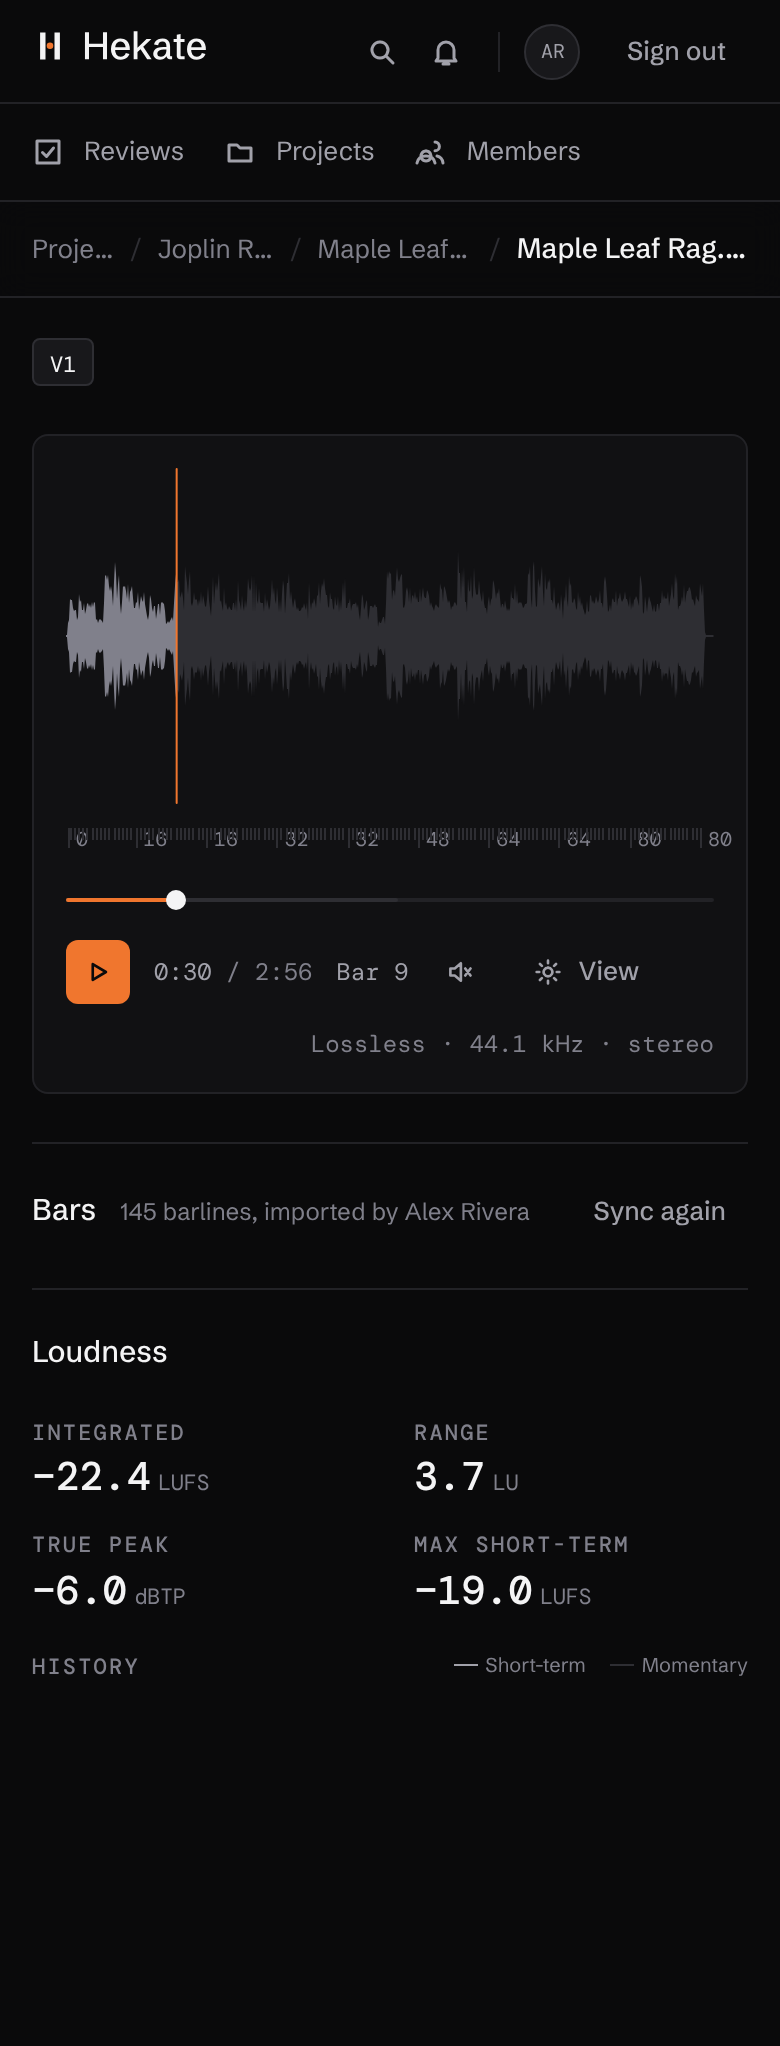
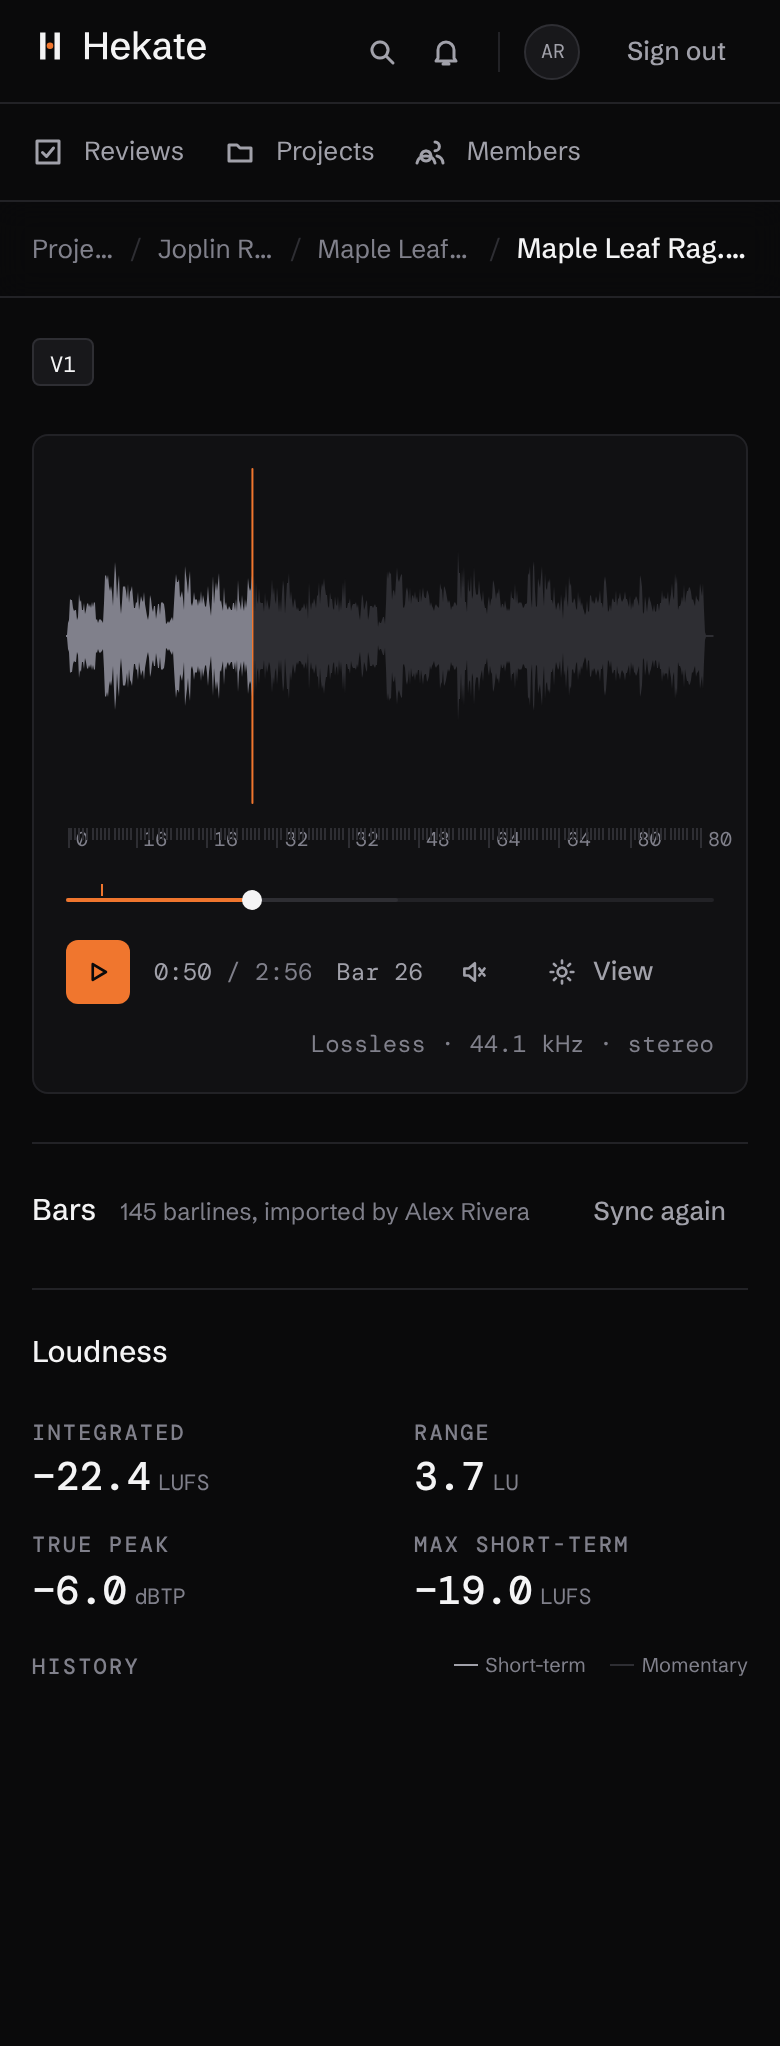
feat(web): read comments by bar, and point a comment at a bar
A comment's time reads with its bar once the recording is synced, and
the composer offers the bar itself: a bar anchor plays from where the
map first reaches it and sorts where it is heard.

Claude-Session: https://claude.ai/code/session_01NFVnDKxWxdqH1wjHhzokRU

diff --git a/apps/web/src/components/comments.tsx b/apps/web/src/components/comments.tsx
@@ -1,10 +1,14 @@
 import {
   type Anchor,
   anchorShift,
+  type BarMap,
+  barAt,
+  barLabel,
   type CarryStatus,
   carryStatuses,
   carryStatusLabel,
   formatAnchor,
+  timeOfBar,
 } from "@hekate/shared";
 import { useQuery } from "@tanstack/react-query";
 import { type FormEvent, type KeyboardEvent, useEffect, useRef, useState } from "react";
@@ -66,6 +70,19 @@ function Target({
       {children}
     </button>
   );
+}
+
+/** A bar anchor as the player reads bars: "Bar 25", "Bar 25.2", "Bars 9–12". */
+function barAnchorLabel(anchor: Extract<Anchor, { kind: "bar" }>): string {
+  if (anchor.to && anchor.to.bar !== anchor.from.bar)
+    return `Bars ${anchor.from.bar}–${anchor.to.bar}`;
+  return barLabel(anchor.from);
+}
+
+/** " · Bar 17.2" after a time, when the recording is synced to its score. */
+function BarOf({ bars, at }: { bars: BarMap; at: number }) {
+  const position = barAt(bars, at);
+  return position ? <span className="text-ink-3"> · {barLabel(position)}</span> : null;
 }
 
 /** What before and after needs: the earlier file, the passage there and here. */
@@ -209,6 +226,7 @@ function ThreadView({
   canTriage,
   marker,
   pages,
+  bars,
 }: {
   thread: Thread;
   /** The file being looked at, which a carried thread was brought to. */
@@ -227,6 +245,8 @@ function ThreadView({
   /** The thread's number on the page, when it points at a region of it. */
   marker?: RegionMarker;
   pages?: PageComments;
+  /** The recording's bar map, to say which bar a moment falls in. */
+  bars?: BarMap | null;
 }) {
   const [replying, setReplying] = useState(false);
   const { comment, replies } = thread;
@@ -267,6 +287,18 @@ function ThreadView({
               aria-label={`Play from ${anchorLabel(anchor)}`}
             >
               {anchorLabel(anchor)}
+              {bars && <BarOf bars={bars} at={anchor.start} />}
+            </button>
+          ) : anchor.kind === "bar" &&
+            bars &&
+            timeOfBar(bars, anchor.from.bar, anchor.from.beat) !== null ? (
+            <button
+              type="button"
+              onClick={() => onSeek(timeOfBar(bars, anchor.from.bar, anchor.from.beat) ?? 0)}
+              className="tabular h-6 cursor-pointer rounded-chip border border-edge bg-transparent px-2 font-mono text-[11px] text-ink hover:border-signal"
+              aria-label={`Play from ${barAnchorLabel(anchor).toLowerCase()}`}
+            >
+              {barAnchorLabel(anchor)}
             </button>
           ) : anchor.kind === "region" && pages ? (
             <button
@@ -459,6 +491,7 @@ export function Comments({
   onLoop,
   onBeforeAfter,
   pages,
+  bars = null,
 }: {
   fileId: string;
   /** The file's project, whose role decides who may comment and resolve. */
@@ -473,6 +506,8 @@ export function Comments({
   onBeforeAfter?: (target: BeforeAfter) => void;
   /** On a document or picture: the page shown and the region drawn on it. */
   pages?: PageComments;
+  /** On a recording synced to its score: where each bar begins. */
+  bars?: BarMap | null;
 }) {
   const { data, error } = useQuery(commentsQuery(fileId));
   const { guest } = useViewer();
@@ -486,6 +521,10 @@ export function Comments({
   /** The playhead when writing began; null for a whole-file comment. */
   const [at, setAt] = useState<number | null>(null);
   const [wholeFile, setWholeFile] = useState(false);
+  /** On a recording synced to its score: point at the bar rather than the moment. */
+  const [byBar, setByBar] = useState(false);
+  /** The bar at the captured playhead, when there is a bar map. */
+  const barHere = bars && at !== null ? barAt(bars, at) : null;
   /** With a loop set, new comments point at the looped passage unless told otherwise. */
   const [onPassage, setOnPassage] = useState(true);
   const [showResolved, setShowResolved] = useState(false);
@@ -521,10 +560,12 @@ export function Comments({
     if (!media || wholeFile) return null;
     if (loop && onPassage) return { kind: "time", start: loop.start, end: loop.end };
     const start = at ?? Math.round(media.currentTime * 1000) / 1000;
+    const bar = byBar && bars ? barAt(bars, start) : null;
+    if (bar) return { kind: "bar", from: { bar: bar.bar, beat: Math.floor(bar.beat) } };
     return { kind: "time", start, end: start };
   };
 
-  const threads = data ? threadsOf(data) : { open: [], resolved: [], hidden: [] };
+  const threads = data ? threadsOf(data, bars) : { open: [], resolved: [], hidden: [] };
   const markers = data ? regionMarkers(data) : [];
   const view = (t: Thread) => (
     <ThreadView
@@ -541,6 +582,7 @@ export function Comments({
       canTriage={canTriage}
       marker={markers.find((m) => m.id === t.comment.id)}
       pages={pages}
+      bars={bars}
     />
   );
 
@@ -571,6 +613,7 @@ export function Comments({
               await mutations.create.mutateAsync({ body, anchor: anchorNow() });
               setAt(null);
               setWholeFile(false);
+              setByBar(false);
               // Each document comment starts again from the page shown.
               if (pages) {
                 if (pageAim === "region") pages.onFocus({ draft: null });
@@ -599,21 +642,36 @@ export function Comments({
               <span className="flex items-center gap-1">
                 <button
                   type="button"
-                  aria-pressed={!wholeFile && !(loop && onPassage)}
+                  aria-pressed={!wholeFile && !(loop && onPassage) && !(byBar && barHere)}
                   onClick={() => {
                     setWholeFile(false);
                     setOnPassage(false);
+                    setByBar(false);
                     setAt(Math.round(media.currentTime * 1000) / 1000);
                   }}
                   className={cn(
                     "tabular h-6 cursor-pointer rounded-chip border px-2 font-mono text-[11px]",
-                    !wholeFile && !(loop && onPassage)
+                    !wholeFile && !(loop && onPassage) && !(byBar && barHere)
                       ? "border-edge bg-raised text-ink"
                       : "border-transparent bg-transparent text-ink-3",
                   )}
                 >
                   {at === null ? "At playhead" : anchorLabel({ kind: "time", start: at, end: at })}
                 </button>
+                {barHere && (
+                  // The bar, not the moment: it reads the same in any recording of the score.
+                  <Target
+                    pressed={!wholeFile && !(loop && onPassage) && byBar}
+                    onClick={() => {
+                      setWholeFile(false);
+                      setOnPassage(false);
+                      setByBar(true);
+                    }}
+                    mono
+                  >
+                    {barLabel(barHere)}
+                  </Target>
+                )}
                 {loop && (
                   <button
                     type="button"
@@ -621,6 +679,7 @@ export function Comments({
                     onClick={() => {
                       setWholeFile(false);
                       setOnPassage(true);
+                      setByBar(false);
                     }}
                     className={cn(
                       "tabular h-6 cursor-pointer rounded-chip border px-2 font-mono text-[11px]",

diff --git a/apps/web/src/lib/comments.ts b/apps/web/src/lib/comments.ts
@@ -1,4 +1,4 @@
-import type { Anchor, CarryStatus } from "@hekate/shared";
+import { type Anchor, type BarMap, type CarryStatus, timeOfBar } from "@hekate/shared";
 import type { Loop } from "./loop";
 import type { Comment, CommentHistory } from "./queries";
 
@@ -7,14 +7,19 @@ export interface Thread {
   replies: Comment[];
 }
 
-/** Where an anchor sits, for ordering: seconds, then bar, then page; whole-file last. */
-function position(anchor: Anchor | null): [number, number] {
+/**
+ * Where an anchor sits, for ordering: by time, a bar where the bar map says it is heard
+ * (by its number without one), then by page; whole-file last.
+ */
+function position(anchor: Anchor | null, bars: BarMap | null): [number, number] {
   if (!anchor) return [1, Number.POSITIVE_INFINITY];
   switch (anchor.kind) {
     case "time":
       return [0, anchor.start];
-    case "bar":
-      return [0, anchor.from.bar * 1000 + anchor.from.beat];
+    case "bar": {
+      const heard = bars ? timeOfBar(bars, anchor.from.bar, anchor.from.beat) : null;
+      return heard !== null ? [0, heard] : [0, anchor.from.bar * 1000 + anchor.from.beat];
+    }
     case "region":
       return [0, anchor.at ?? (anchor.page ?? 0) * 1000 + anchor.y];
   }
@@ -25,7 +30,10 @@ function position(anchor: Anchor | null): [number, number] {
  * comments after them, resolved threads apart, and threads carried here but hidden on
  * this version apart again. Replies stay in the order they were written.
  */
-export function threadsOf(comments: Comment[]): {
+export function threadsOf(
+  comments: Comment[],
+  bars: BarMap | null = null,
+): {
   open: Thread[];
   resolved: Thread[];
   hidden: Thread[];
@@ -41,8 +49,8 @@ export function threadsOf(comments: Comment[]): {
     else threads.set(c.id, { comment: c, replies: [] });
   }
   const ordered = [...threads.values()].sort((a, b) => {
-    const [ga, pa] = position(a.comment.anchor);
-    const [gb, pb] = position(b.comment.anchor);
+    const [ga, pa] = position(a.comment.anchor, bars);
+    const [gb, pb] = position(b.comment.anchor, bars);
     return ga - gb || pa - pb || a.comment.createdAt.localeCompare(b.comment.createdAt);
   });
   const shown = ordered.filter((t) => t.comment.carry?.visible !== false);

diff --git a/apps/web/src/lib/comments.test.ts b/apps/web/src/lib/comments.test.ts
@@ -22,6 +22,27 @@ const comment = (id: string, extra: Partial<Comment> = {}): Comment => ({
 });
 
 describe("comment threads", () => {
+  it("places a bar where the bar map says it is heard", () => {
+    const bars = {
+      beatsPerBar: 2,
+      points: [
+        [1, 1],
+        [2, 2],
+        [3, 3],
+      ] as [number, number][],
+    };
+    const list = [
+      comment("bar 3", { anchor: { kind: "bar", from: { bar: 3, beat: 1 } } }),
+      comment("at 2.5 s", { anchor: { kind: "time", start: 2.5, end: 2.5 } }),
+      comment("bar 1", { anchor: { kind: "bar", from: { bar: 1, beat: 1 } } }),
+    ];
+    expect(threadsOf(list, bars).open.map((t) => t.comment.id)).toEqual([
+      "bar 1",
+      "at 2.5 s",
+      "bar 3",
+    ]);
+  });
+
   it("orders open threads by where they point, keeps replies, and sets resolved apart", () => {
     const { open, resolved } = threadsOf([
       comment("late", { anchor: { kind: "time", start: 90, end: 90 } }),

diff --git a/apps/web/src/routes/file.tsx b/apps/web/src/routes/file.tsx
@@ -283,6 +283,7 @@ export function FilePage({
             media={media}
             loop={passage}
             pages={file.streamStatus === "ready" ? pages : undefined}
+            bars={barMap ?? null}
             onBeforeAfter={comparable ? beforeAfter : undefined}
             onLoop={
               allows("loops")

diff --git a/docs/decisions.md b/docs/decisions.md
@@ -136,4 +136,4 @@ On a document or picture, dragging on the page with a mouse or pen draws a recta
 
 ## 034. A bar map is the barlines in the order they are heard
 
-A recording is synced to its score by a bar map (`bar_maps`, #13): the barlines in the order they are heard, each a time and a bar number, and the beats in a bar. A repeat simply plays some bars again, so first and second endings, da capo and skipped repeats need nothing special; between two barlines the beats are spread evenly. One map is kept per file, and a version's variations read each other's, since they share their times. A map is tapped along while the recording plays (B on each barline), with the bar order written as a musician would ("0, 1-16, 1-16, 17-"), or imported from a label track in Audacity's or Sonic Visualiser's format. Making or clearing one takes the "organise" permission; anyone who can see the file reads it. The player shows a ruler of bar numbers under the waveform and the bar and beat at the playhead. Bar anchors on comments, the playhead on the score and carrying a map to the next version along its alignment follow.
+A recording is synced to its score by a bar map (`bar_maps`, #13): the barlines in the order they are heard, each a time and a bar number, and the beats in a bar. A repeat simply plays some bars again, so first and second endings, da capo and skipped repeats need nothing special; between two barlines the beats are spread evenly. One map is kept per file, and a version's variations read each other's, since they share their times. A map is tapped along while the recording plays (B on each barline), with the bar order written as a musician would ("0, 1-16, 1-16, 17-"), or imported from a label track in Audacity's or Sonic Visualiser's format. Making or clearing one takes the "organise" permission; anyone who can see the file reads it. The player shows a ruler of bar numbers under the waveform and the bar and beat at the playhead. A comment's time reads with its bar ("0:09.654 · Bar 8"), and a comment can point at the bar itself instead of the moment: a `bar` anchor, which means the same place in any recording of the score and plays from where the map first reaches it. The playhead on the score and carrying a map to the next version along its alignment follow.
